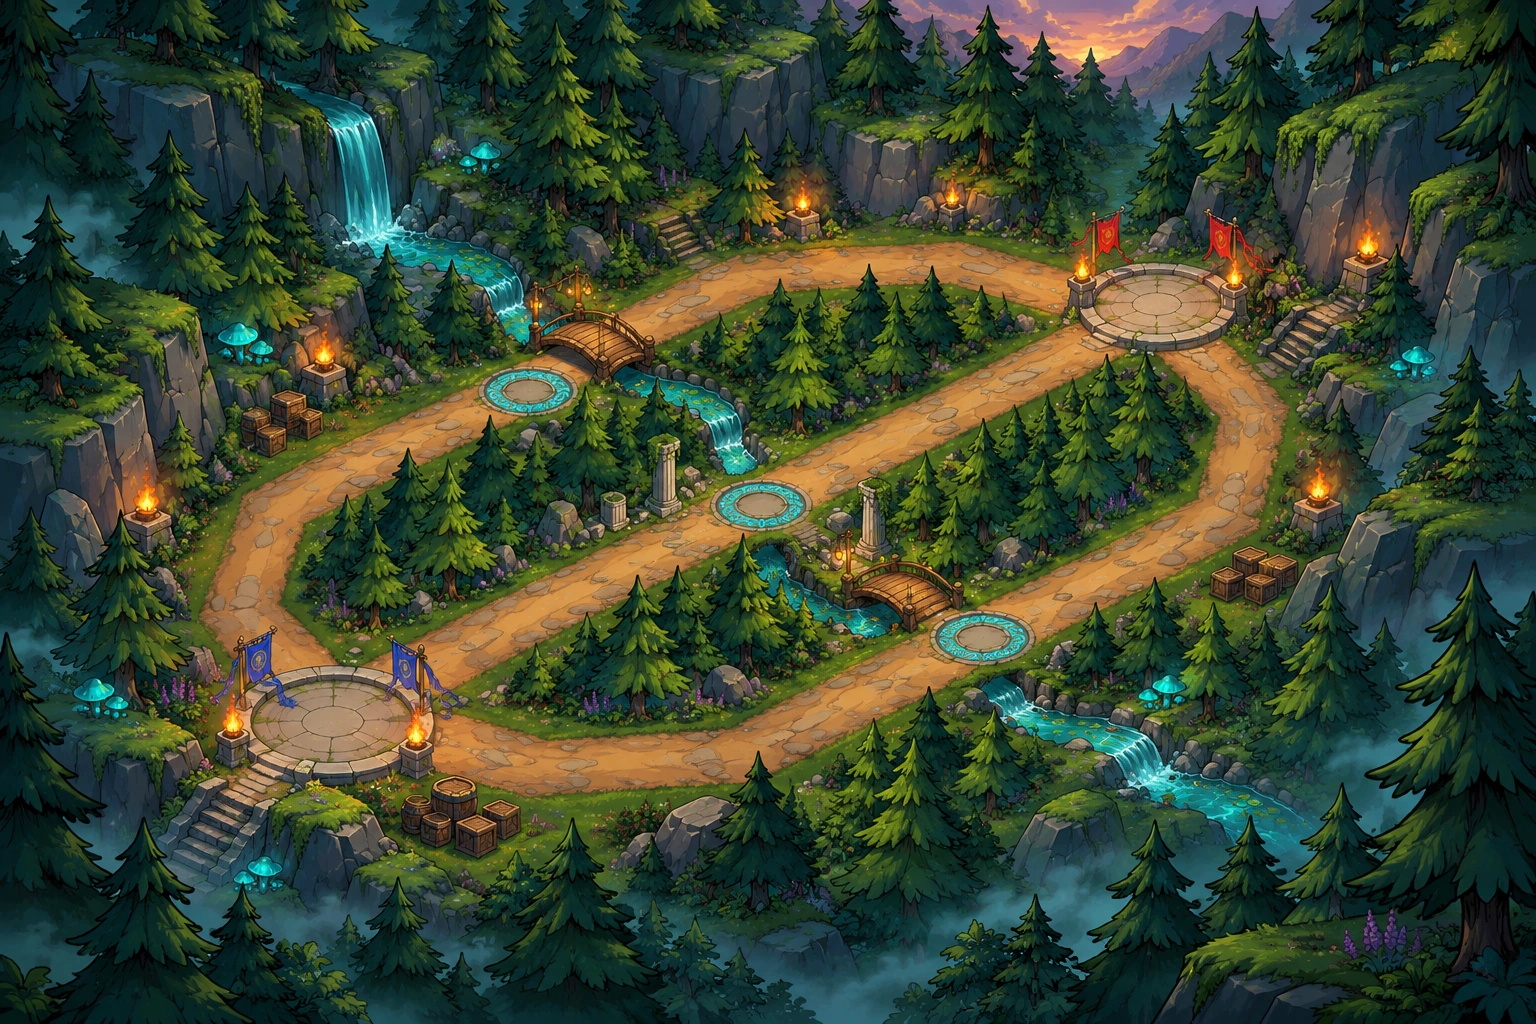
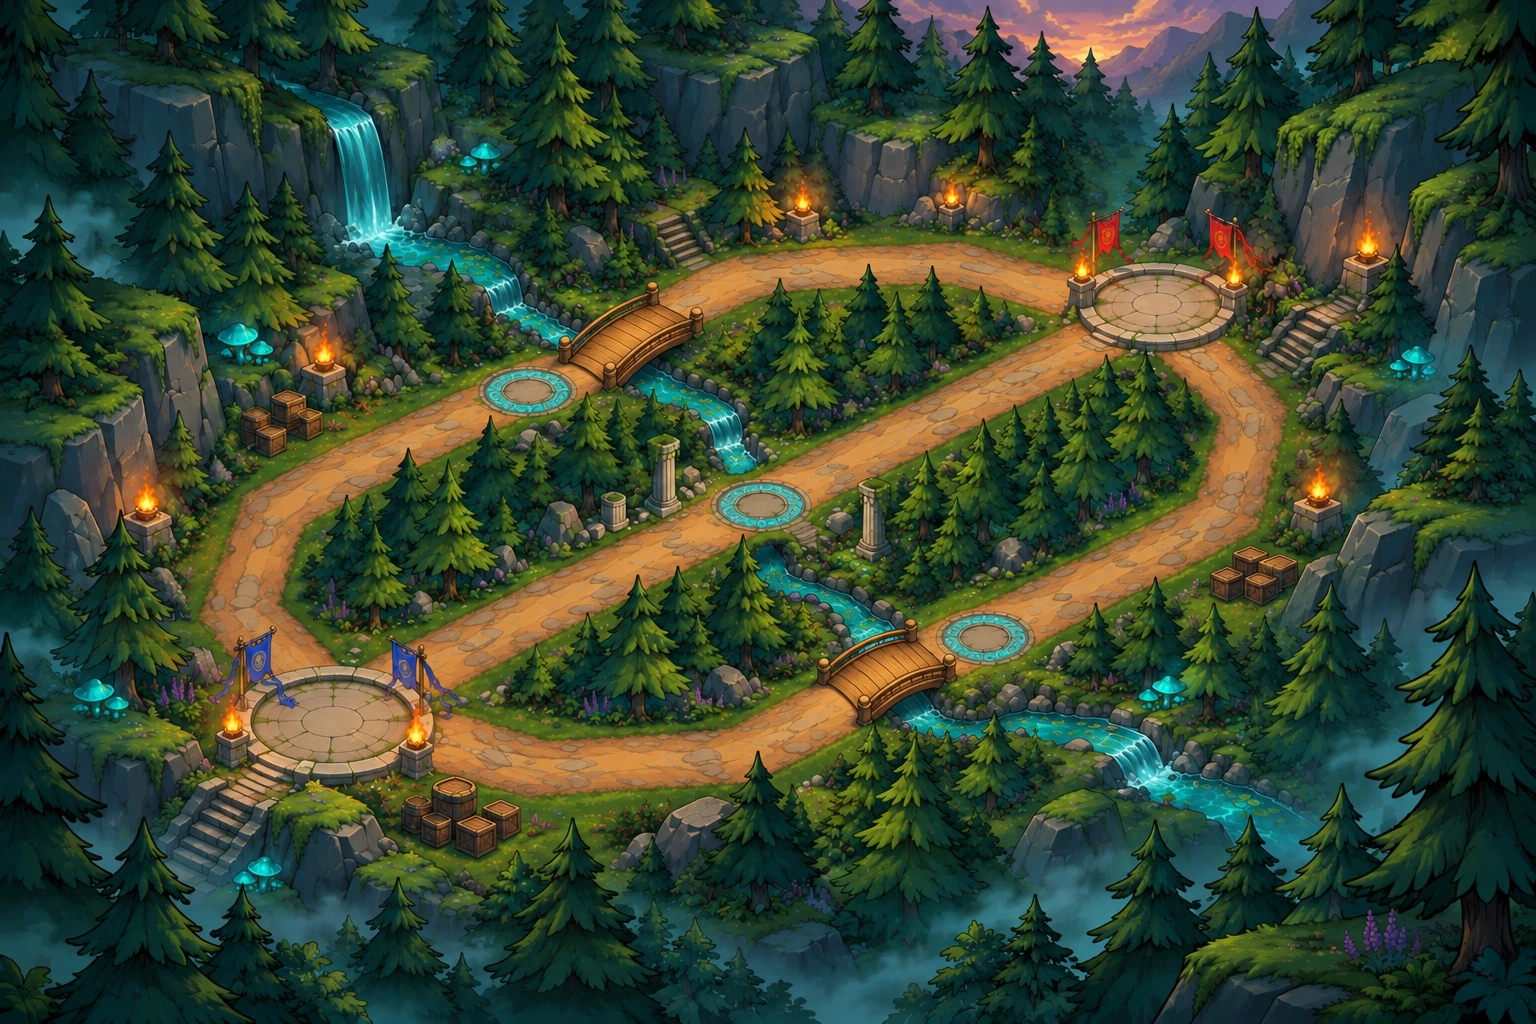
Align bridge crossings and center structure footprints on arena courts

diff --git a/arena/index.html b/arena/index.html
@@ -6,36 +6,36 @@
   <meta name="theme-color" content="#0b1718">
   <meta name="description" content="Command your Clash-A-Mana deck across three randomly chosen battlegrounds. Capture mana, cross waterfalls and survive the lava. Break the enemy citadel.">
   <title>Clash-A-Mana · The Arena</title>
-  <link rel="stylesheet" href="styles/arena.css?v=47">
-  <link rel="preload" as="image" href="assets/maps/verdant-basin.webp" fetchpriority="high">
+  <link rel="stylesheet" href="styles/arena.css?v=48">
+  <link rel="preload" as="image" href="assets/maps/verdant-basin.webp?v=48" fetchpriority="high">
   <link rel="preload" as="image" href="assets/sprites/arena-structures.webp">
   <script type="importmap">
     {"imports":{
-      "./js/app.mjs":"./js/app.mjs?v=47",
-      "./js/ascension.mjs":"./js/ascension.mjs?v=47",
-      "./js/abilities.mjs":"./js/abilities.mjs?v=47",
-      "./js/late-abilities.mjs":"./js/late-abilities.mjs?v=47",
-      "./js/art.mjs":"./js/art.mjs?v=47",
-      "./js/bot.mjs":"./js/bot.mjs?v=47",
-      "./js/camera.mjs":"./js/camera.mjs?v=47",
-      "./js/catalog.mjs":"./js/catalog.mjs?v=47",
-      "./js/engine.mjs":"./js/engine.mjs?v=47",
-      "./js/power.mjs":"./js/power.mjs?v=47",
+      "./js/app.mjs":"./js/app.mjs?v=48",
+      "./js/ascension.mjs":"./js/ascension.mjs?v=48",
+      "./js/abilities.mjs":"./js/abilities.mjs?v=48",
+      "./js/late-abilities.mjs":"./js/late-abilities.mjs?v=48",
+      "./js/art.mjs":"./js/art.mjs?v=48",
+      "./js/bot.mjs":"./js/bot.mjs?v=48",
+      "./js/camera.mjs":"./js/camera.mjs?v=48",
+      "./js/catalog.mjs":"./js/catalog.mjs?v=48",
+      "./js/engine.mjs":"./js/engine.mjs?v=48",
+      "./js/power.mjs":"./js/power.mjs?v=48",
       "../js/core/card-power.js":"../js/core/card-power.js?v=2",
       "../js/core/passive-power.js":"../js/core/passive-power.js?v=2",
-      "./js/map.mjs":"./js/map.mjs?v=47",
-      "./js/projection.mjs":"./js/projection.mjs?v=47",
-      "./js/scene-art.mjs":"./js/scene-art.mjs?v=47",
-      "./js/environment.mjs":"./js/environment.mjs?v=47",
-      "./js/biomes.mjs":"./js/biomes.mjs?v=47",
-      "./js/renderer.mjs":"./js/renderer.mjs?v=47",
-      "./js/rules.mjs":"./js/rules.mjs?v=47",
-      "./js/statuses.mjs":"./js/statuses.mjs?v=47",
-      "./js/visuals.mjs":"./js/visuals.mjs?v=47",
-      "./js/vision.mjs":"./js/vision.mjs?v=47"
+      "./js/map.mjs":"./js/map.mjs?v=48",
+      "./js/projection.mjs":"./js/projection.mjs?v=48",
+      "./js/scene-art.mjs":"./js/scene-art.mjs?v=48",
+      "./js/environment.mjs":"./js/environment.mjs?v=48",
+      "./js/biomes.mjs":"./js/biomes.mjs?v=48",
+      "./js/renderer.mjs":"./js/renderer.mjs?v=48",
+      "./js/rules.mjs":"./js/rules.mjs?v=48",
+      "./js/statuses.mjs":"./js/statuses.mjs?v=48",
+      "./js/visuals.mjs":"./js/visuals.mjs?v=48",
+      "./js/vision.mjs":"./js/vision.mjs?v=48"
     }}
   </script>
-  <script type="module" src="js/app.mjs?v=47"></script>
+  <script type="module" src="js/app.mjs?v=48"></script>
 <link rel="stylesheet" href="../styles/card-power.css?v=1">
 </head>
 <body data-mode="lobby">

diff --git a/arena/assets/README.md b/arena/assets/README.md
@@ -12,9 +12,17 @@ The combined download is approximately 2.7 MiB.
 - `sprites/arena-structures.webp`: two castles, mana pump and cascade shrine.
 
 Source registration dimensions and pad anchors live in `js/scene-art.mjs`.
-A small affine triangle mesh registers the painted courts and well pads to the
-unchanged combat coordinates. Castles, wells, capture progress and ownership
+A small affine triangle mesh registers measured court centers, well pads and
+both bridge entries to the unchanged combat coordinates. The forest bridges
+carry traffic along the northern and southern roads, with the creek below the
+deck. Their entry coordinates and painted walking polygons are recorded in
+`PAINTED_BRIDGES` and checked against the real routes. Castles, wells, capture progress and ownership
 are drawn separately, as are active lava, water glints, projectiles and units.
+Structure placement uses the center of the stone ground ellipse in each atlas
+cell. It does not align the image's bottom edge with the courtyard center.
+Castle crops also exclude glow from the next atlas row. The alpha-fit browser
+check measures the stone bases independently and verifies the actual draw calls
+on all three maps at 50%, 100% and 160% zoom.
 
 `js/projection.mjs` shares each map's transform between rendering, camera input,
 fog, deployment fields and minimap. The new maps face north vertically; the

diff --git a/docs/arena.md b/docs/arena.md
@@ -1202,7 +1202,12 @@ The tests write preview screenshots under `/tmp` for visual review.
 desktop and phone, local artwork loading, preview buttons, portrait projection,
 fog on the minimap, hazard phases, orb pickup, and click deployment. Set
 `ARENA_ENVIRONMENTS_URL` to check the deployed build. Registration/projection
-math is covered by `tests/arena-scene-art.test.cjs`.
+math is covered by `tests/arena-scene-art.test.cjs`. `node tests/arena-alignment.browser.cjs`
+independently fits the source sprites' stone-base alpha contours, then checks
+actual canvas draw calls against the castle/well centers on desktop and phone
+at three zoom levels. Set `ARENA_ALIGNMENT_URL` to verify a deployed build.
+Bridge entry/exit calibration and a clear walking strip through both decks are
+also tested against the simulation routes.
 
 The effects browser check also compares rendered pixels at each active area
 boundary, expired areas and hidden fog, and checks status icons, inspector labels,
